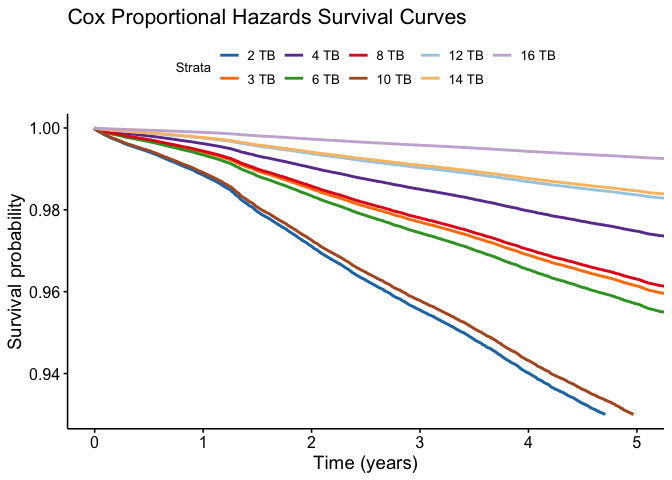
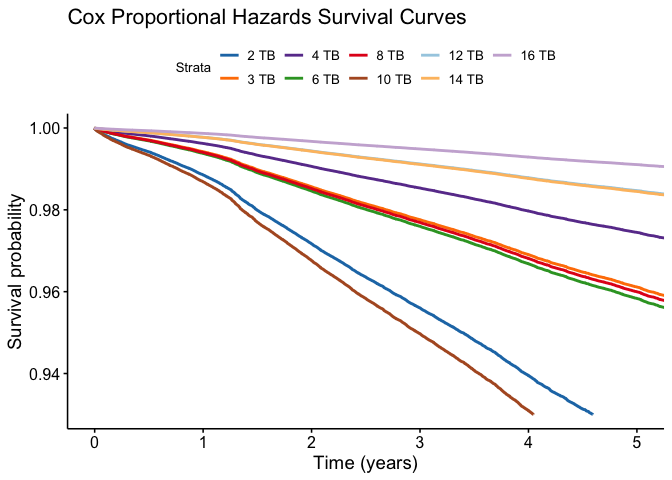
rerun readme

diff --git a/README.md b/README.md
@@ -36,38 +36,38 @@ things.
 I chose to order the drives by their expected 5 year survival rate. I
 calculated a 95% confidence interval on the 5-year survival rate, and I
 used that interval to sort the drives. Based on this analysis, the wdc
-wuh721414ale6l4 is the most reliable drive model in our data, with an
-estimated 5-year survival rate that is at least 99.69%.
+wuh721816ale6l0 is the most reliable drive model in our data, with an
+estimated 5-year survival rate that is at least 99.71%.
 
 The top 25 drives from this analysis are:
 
 | model                   | size  |     N | drive_days | failures | surv_5yr_lo | surv_5yr | surv_5yr_hi |
 |:------------------------|:------|------:|-----------:|---------:|:------------|:---------|:------------|
-| wdc wuh721414ale6l4     | 14 TB |  8452 |    5471924 |       43 | 99.69%      | 99.77%   | 99.83%      |
-| wdc wuh721816ale6l0     | 16 TB |  2705 |     956996 |        3 | 99.67%      | 99.89%   | 99.97%      |
-| hgst huh721212ale600    | 12 TB |  2632 |    2818625 |       25 | 99.63%      | 99.75%   | 99.83%      |
-| hgst hms5c4040ale640    | 4 TB  |  8723 |   16461571 |      238 | 99.56%      | 99.62%   | 99.66%      |
-| hgst huh721212aln604    | 12 TB | 10982 |   13782875 |      191 | 99.55%      | 99.61%   | 99.67%      |
-| hgst huh721212ale604    | 12 TB | 13255 |    7187671 |       94 | 99.50%      | 99.59%   | 99.67%      |
-| hitachi hds5c4040ale630 | 4 TB  |  2719 |    4641113 |       89 | 99.36%      | 99.48%   | 99.58%      |
-| hitachi hds5c3030ala630 | 3 TB  |  4664 |    6934573 |      150 | 99.31%      | 99.41%   | 99.50%      |
-| st12000nm001g           | 12 TB | 12708 |    8422348 |      174 | 99.30%      | 99.39%   | 99.48%      |
-| hgst huh728080ale600    | 8 TB  |  1204 |    1899725 |       39 | 99.23%      | 99.44%   | 99.59%      |
-| toshiba mg07aca14ta     | 14 TB | 38945 |   26789054 |      666 | 99.21%      | 99.27%   | 99.33%      |
-| st6000dx000             | 6 TB  |  1939 |    3822551 |       94 | 99.19%      | 99.34%   | 99.46%      |
-| toshiba mg08aca16tey    | 16 TB |  4275 |    1515204 |       29 | 99.12%      | 99.39%   | 99.58%      |
-| wdc wuh721816ale6l4     | 16 TB |  7205 |     484470 |        7 | 99.09%      | 99.57%   | 99.79%      |
-| st16000nm001g           | 16 TB | 20612 |    5912833 |      147 | 99.03%      | 99.17%   | 99.30%      |
-| st8000dm002             | 8 TB  | 10300 |   21603295 |      731 | 98.99%      | 99.07%   | 99.14%      |
-| st14000nm001g           | 14 TB | 10929 |    6432853 |      191 | 98.96%      | 99.10%   | 99.22%      |
-| st12000nm0008           | 12 TB | 20607 |   18507805 |      679 | 98.89%      | 98.97%   | 99.05%      |
-| st8000nm0055            | 8 TB  | 15495 |   27632708 |     1100 | 98.84%      | 98.91%   | 98.98%      |
+| wdc wuh721816ale6l0     | 16 TB |  2705 |    1448470 |        6 | 99.71%      | 99.87%   | 99.94%      |
+| wdc wuh721414ale6l4     | 14 TB |  8468 |    7002255 |       56 | 99.70%      | 99.77%   | 99.82%      |
+| hgst huh721212ale600    | 12 TB |  2636 |    3292866 |       27 | 99.67%      | 99.77%   | 99.85%      |
+| wdc wuh721816ale6l4     | 16 TB | 14117 |    2500419 |       19 | 99.59%      | 99.74%   | 99.83%      |
+| hgst hms5c4040ale640    | 4 TB  |  8723 |   17134325 |      247 | 99.57%      | 99.62%   | 99.67%      |
+| hgst huh721212ale604    | 12 TB | 13287 |    9585261 |      131 | 99.52%      | 99.60%   | 99.66%      |
+| hgst huh721212aln604    | 12 TB | 11006 |   15741965 |      291 | 99.44%      | 99.50%   | 99.56%      |
+| hitachi hds5c4040ale630 | 4 TB  |  2719 |    4642205 |       89 | 99.37%      | 99.49%   | 99.59%      |
+| toshiba mg08aca16tey    | 16 TB |  5335 |    2444992 |       36 | 99.36%      | 99.54%   | 99.67%      |
+| hitachi hds5c3030ala630 | 3 TB  |  4664 |    6934573 |      150 | 99.32%      | 99.42%   | 99.51%      |
+| st12000nm001g           | 12 TB | 13040 |   10722329 |      226 | 99.31%      | 99.39%   | 99.47%      |
+| st6000dx000             | 6 TB  |  1939 |    3987495 |       97 | 99.24%      | 99.38%   | 99.49%      |
+| toshiba mg07aca14ta     | 14 TB | 39096 |   33737764 |      858 | 99.22%      | 99.27%   | 99.32%      |
+| hgst huh728080ale600    | 8 TB  |  1209 |    2102738 |       47 | 99.20%      | 99.40%   | 99.55%      |
+| st16000nm001g           | 16 TB | 22206 |    9699369 |      223 | 99.16%      | 99.26%   | 99.35%      |
+| st8000dm002             | 8 TB  | 10300 |   23335336 |      820 | 99.01%      | 99.08%   | 99.15%      |
+| toshiba mg08aca16ta     | 16 TB |  5215 |    1087766 |       20 | 99.00%      | 99.35%   | 99.58%      |
+| st14000nm001g           | 14 TB | 11021 |    8388898 |      260 | 98.98%      | 99.10%   | 99.21%      |
+| st8000nm0055            | 8 TB  | 15678 |   30251397 |     1308 | 98.78%      | 98.86%   | 98.93%      |
+| st12000nm0008           | 12 TB | 20674 |   22115130 |      898 | 98.78%      | 98.87%   | 98.94%      |
 | hitachi hds722020ala330 | 2 TB  |  4774 |    5675646 |      235 | 98.69%      | 98.85%   | 98.99%      |
-| st10000nm0086           | 10 TB |  1283 |    2206241 |       88 | 98.65%      | 98.91%   | 99.12%      |
-| st12000nm0007           | 12 TB | 38838 |   36171181 |     2008 | 98.36%      | 98.44%   | 98.52%      |
-| st4000dm000             | 4 TB  | 37037 |   72190670 |     4932 | 98.08%      | 98.16%   | 98.24%      |
-| toshiba mg08aca16ta     | 16 TB |  3761 |     300862 |       11 | 98.07%      | 98.93%   | 99.41%      |
-| toshiba mg08aca16te     | 16 TB |  6030 |    1941750 |       88 | 97.98%      | 98.36%   | 98.67%      |
+| toshiba mg08aca16te     | 16 TB |  6042 |    3022140 |      110 | 98.58%      | 98.82%   | 99.02%      |
+| st10000nm0086           | 10 TB |  1304 |    2419470 |      120 | 98.42%      | 98.68%   | 98.90%      |
+| st12000nm0007           | 12 TB | 38838 |   36400069 |     2040 | 98.34%      | 98.42%   | 98.49%      |
+| st4000dm000             | 4 TB  | 37039 |   75716460 |     5260 | 98.15%      | 98.23%   | 98.31%      |
 
 - **model** is the drive model
 - **size** is the size of the drive
@@ -86,15 +86,15 @@ To narrow down the data, we can just look at the best drive by size
 
 | model                   | size  |    N | drive_days | failures | surv_5yr_lo | surv_5yr | surv_5yr_hi |
 |:------------------------|:------|-----:|-----------:|---------:|:------------|:---------|:------------|
-| wdc wuh721414ale6l4     | 14 TB | 8452 |    5471924 |       43 | 99.69%      | 99.77%   | 99.83%      |
-| wdc wuh721816ale6l0     | 16 TB | 2705 |     956996 |        3 | 99.67%      | 99.89%   | 99.97%      |
-| hgst huh721212ale600    | 12 TB | 2632 |    2818625 |       25 | 99.63%      | 99.75%   | 99.83%      |
-| hgst hms5c4040ale640    | 4 TB  | 8723 |   16461571 |      238 | 99.56%      | 99.62%   | 99.66%      |
-| hitachi hds5c3030ala630 | 3 TB  | 4664 |    6934573 |      150 | 99.31%      | 99.41%   | 99.50%      |
-| hgst huh728080ale600    | 8 TB  | 1204 |    1899725 |       39 | 99.23%      | 99.44%   | 99.59%      |
-| st6000dx000             | 6 TB  | 1939 |    3822551 |       94 | 99.19%      | 99.34%   | 99.46%      |
+| wdc wuh721816ale6l0     | 16 TB | 2705 |    1448470 |        6 | 99.71%      | 99.87%   | 99.94%      |
+| wdc wuh721414ale6l4     | 14 TB | 8468 |    7002255 |       56 | 99.70%      | 99.77%   | 99.82%      |
+| hgst huh721212ale600    | 12 TB | 2636 |    3292866 |       27 | 99.67%      | 99.77%   | 99.85%      |
+| hgst hms5c4040ale640    | 4 TB  | 8723 |   17134325 |      247 | 99.57%      | 99.62%   | 99.67%      |
+| hitachi hds5c3030ala630 | 3 TB  | 4664 |    6934573 |      150 | 99.32%      | 99.42%   | 99.51%      |
+| st6000dx000             | 6 TB  | 1939 |    3987495 |       97 | 99.24%      | 99.38%   | 99.49%      |
+| hgst huh728080ale600    | 8 TB  | 1209 |    2102738 |       47 | 99.20%      | 99.40%   | 99.55%      |
 | hitachi hds722020ala330 | 2 TB  | 4774 |    5675646 |      235 | 98.69%      | 98.85%   | 98.99%      |
-| st10000nm0086           | 10 TB | 1283 |    2206241 |       88 | 98.65%      | 98.91%   | 99.12%      |
+| st10000nm0086           | 10 TB | 1304 |    2419470 |      120 | 98.42%      | 98.68%   | 98.90%      |
 
 All of these drives have a very high 5-year survival rate, and I’d feel
 pretty confident buying any of them.
@@ -190,7 +190,7 @@ Any of the top 25 drives are likely safe to buy, and are very unlikely
 to fail.
 
 There are some drives in this data I plan to avoid. For example, the
-st3000dm001 has a 5 year survival of 80.6%. This is honestly probably
+st3000dm001 has a 5 year survival of 80.4%. This is honestly probably
 fine for my purposes, but maybe I’d be a little nervous to buy a drive
 with a 1-in-5 chance of dying within 5 years.
 
